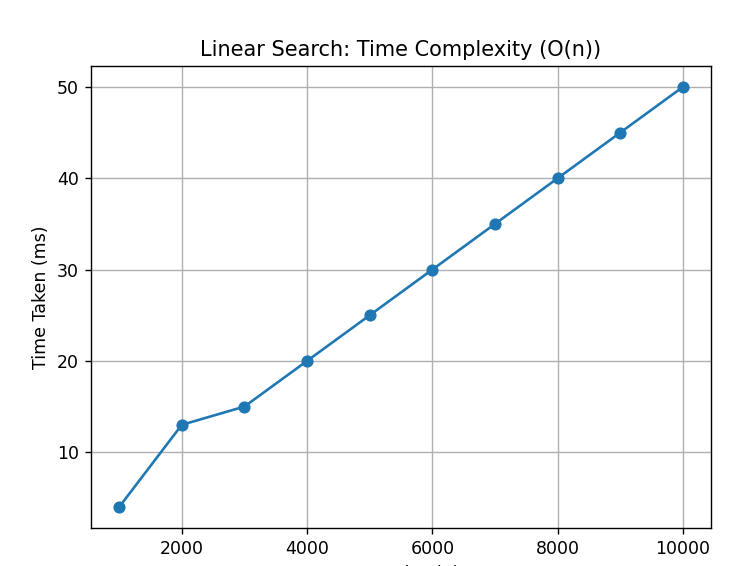
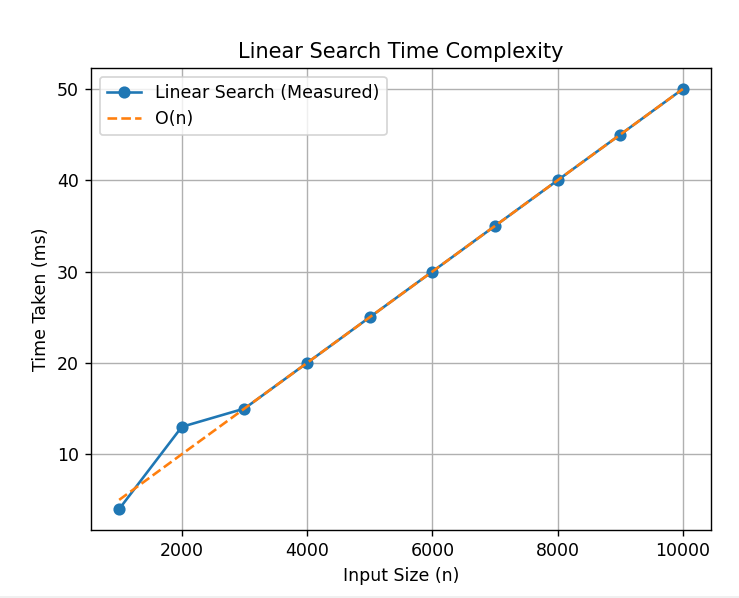
Added some changes

Changed region(s): [[0.0311, 0.0601, 0.9648, 0.9912], [0.4668, 0.5106, 0.5291, 0.5707], [0.6225, 0.3604, 0.6847, 0.4205]]

diff --git a/02Lecture/Algo/binarySearch.cpp b/02Lecture/Algo/binarySearch.cpp
@@ -1,0 +1,53 @@
+#include <iostream>
+#include <chrono>
+#include <algorithm>
+#include <cstdlib>
+
+using namespace std;
+using namespace std::chrono;
+
+int binarySearch(int arr[], int low, int high, int target) {
+    if (low > high)
+        return -1;
+
+    int mid = low + (high - low) / 2;
+
+    if (arr[mid] == target)
+        return mid;
+    else if (arr[mid] < target)
+        return binarySearch(arr, mid + 1, high, target);
+    else
+        return binarySearch(arr, low, mid - 1, target);
+}
+
+int getAverageTime(int n) {
+    long long total_diff = 0;
+    int arr[10000];
+
+    for (int i = 0; i < 100; i++) {
+        for (int j = 0; j < n; j++) {
+            arr[j] = rand() % 10000;
+        }
+
+        sort(arr, arr + n);
+
+        int target = rand() % 10000;
+
+        auto start = high_resolution_clock::now();
+        binarySearch(arr, 0, n - 1, target);
+        auto end = high_resolution_clock::now();
+
+        total_diff += duration_cast<nanoseconds>(end - start).count();
+    }
+
+    return total_diff / 100;
+}
+
+int main() {
+    for (int i = 10000; i <= 90000; i += 10000) {
+        int time = getAverageTime(i);
+        cout << "For " << i << " elements, time = "
+             << time << " ns" << endl;
+    }
+    return 0;
+}

diff --git a/02Lecture/Algo/insertionSort.cpp b/02Lecture/Algo/insertionSort.cpp
@@ -1,0 +1,50 @@
+#include<iostream>
+#include <chrono>
+
+using namespace std;
+using namespace std::chrono;
+
+void insertionSort(int arr[],int& n,int i){
+    if(i == n){
+        return;
+    }
+    int j = i;
+    int toBePlaced = arr[j];
+    while(j > 0 ){
+        if(arr[j-1] > toBePlaced){
+            arr[j] = arr[j-1];
+        }
+        j--;
+    }
+    arr[j] = toBePlaced;
+    
+    insertionSort(arr,n,i+1);
+}
+
+
+int getAverageTime(int n) {
+    int total_diff = 0;
+    int arr[10000];
+
+    for (int i = 0; i < 100; i++) {
+        for (int j = 0; j < n; j++) {
+            arr[j] = rand();
+        }
+
+        auto x = high_resolution_clock::now();
+        insertionSort(arr, n, 1);
+        auto y = high_resolution_clock::now();
+
+        total_diff += duration_cast<microseconds>(y - x).count() ;
+    }
+    return total_diff / 100;
+}
+
+int main() {
+    for (int i = 1000; i < 10000; i += 1000) {
+        int time = getAverageTime(i);
+        cout << "For size " << i << " the average time taken was "<<time<< " ms" << endl;
+    }
+
+    return 0;
+}

diff --git a/01Lecture/Graphs/selectionSort.py b/01Lecture/Graphs/selectionSort.py
@@ -3,9 +3,21 @@ import matplotlib.pyplot as plt
 n = [1000, 2000, 3000, 4000, 5000, 6000, 7000, 8000, 9000, 10000]
 time_ms = [915, 3687, 6912, 9327, 13501, 19577, 25952, 34065, 42901, 53173]
 
-plt.plot(n, time_ms, marker='o')
+n2 = [v * v for v in n]
+scale_n2 = time_ms[-1] / n2[-1]
+n2_scaled = [v * scale_n2 for v in n2]
+
+n1 = n
+scale_n1 = time_ms[0] / n1[0]
+n1_scaled = [v * scale_n1 for v in n1]
+
+plt.plot(n, time_ms, marker='o', label="Selection Sort (Measured)")
+plt.plot(n, n2_scaled, linestyle='--', label="Worst Case O(n²)")
+plt.plot(n, n1_scaled, linestyle='-.', label="Best Case O(n)")
+
 plt.xlabel("Input Size (n)")
 plt.ylabel("Time Taken (ms)")
-plt.title("Selection Sort: Real Execution Time (Large Input Sizes)")
+plt.title("Selection Sort Time Complexity")
+plt.legend()
 plt.grid(True)
 plt.show()

diff --git a/01Lecture/Graphs/bubbleSort.py b/01Lecture/Graphs/bubbleSort.py
@@ -3,13 +3,23 @@ import matplotlib.pyplot as plt
 sizes = [100, 200, 300, 400, 500, 600, 700, 800, 900]
 time_ms = [25, 42, 179, 320, 499, 685, 958, 1267, 1648]
 
-plt.plot(sizes, time_ms, marker='o')
 
+n2 = [n * n for n in sizes]
+scale_n2 = time_ms[-1] / n2[-1]
+n2_scaled = [v * scale_n2 for v in n2]
+
+n1 = sizes
+scale_n1 = time_ms[0] / n1[0]
+n1_scaled = [v * scale_n1 for v in n1]
+
+plt.plot(sizes, time_ms, marker='o', label="Bubble Sort (Measured)")
+plt.plot(sizes, n2_scaled, linestyle='--', label="O(n²)")
+plt.plot(sizes, n1_scaled, linestyle='-.', label="O(n) Best Case")
 
 plt.xlabel("Input Size (n)")
 plt.ylabel("Average Time Taken (ms)")
 plt.title("Bubble Sort Time Complexity (Practical)")
-
+plt.legend()
 plt.grid(True)
 
 plt.show()

diff --git a/02Lecture/Graphs/insertionSort.py b/02Lecture/Graphs/insertionSort.py
@@ -1,0 +1,23 @@
+import matplotlib.pyplot as plt
+
+x = [1000, 2000, 3000, 4000, 5000, 6000, 7000, 8000, 9000]
+measured = [624, 2491, 5605, 9759, 15375, 21937, 29763, 39100, 49880]
+
+n2 = [n*n for n in x]
+scale_n2 = measured[-1] / n2[-1]
+n2_scaled = [v * scale_n2 for v in n2]
+
+n1 = x
+scale_n1 = measured[0] / n1[0]
+n1_scaled = [v * scale_n1 for v in n1]
+
+plt.plot(x, measured, marker='o', label="Insertion Sort (Measured)")
+plt.plot(x, n2_scaled, linestyle='--', label="O(n²)")
+plt.plot(x, n1_scaled, linestyle='-.', label="O(n) Best Case")
+
+plt.xlabel("Input Size (n)")
+plt.ylabel("Time Taken (ms)")
+plt.title("Insertion Sort Time Complexity")
+plt.legend()
+plt.grid(True)
+plt.show()

diff --git a/01Lecture/Graphs/towerOfHanio.py b/01Lecture/Graphs/towerOfHanio.py
@@ -3,9 +3,16 @@ import matplotlib.pyplot as plt
 n = [15, 16, 17, 18, 19, 20, 21, 22, 23, 24, 25]
 time_ms = [172, 416, 629, 1428, 2042, 4610, 7004, 17837, 35189, 69458, 112613]
 
-plt.plot(n, time_ms, marker='o')
+exp = [2 ** v for v in n]
+scale_exp = time_ms[-1] / exp[-1]
+exp_scaled = [v * scale_exp for v in exp]
+
+plt.plot(n, time_ms, marker='o', label="Tower of Hanoi (Measured)")
+plt.plot(n, exp_scaled, linestyle='--', label="Worst Case O(2ⁿ)")
+
 plt.xlabel("Number of Disks (n)")
 plt.ylabel("Time Taken (ms)")
-plt.title("Tower of Hanoi: Real Execution Time (Exponential Growth)")
+plt.title("Tower of Hanoi Time Complexity")
+plt.legend()
 plt.grid(True)
 plt.show()

diff --git a/01Lecture/Graphs/linearSearch.py b/01Lecture/Graphs/linearSearch.py
@@ -3,9 +3,16 @@ import matplotlib.pyplot as plt
 n = [1000, 2000, 3000, 4000, 5000, 6000, 7000, 8000, 9000, 10000]
 time_ms = [4, 13, 15, 20, 25, 30, 35, 40, 45, 50]
 
-plt.plot(n, time_ms, marker='o')
+on = n
+scale_on = time_ms[-1] / on[-1]
+on_scaled = [v * scale_on for v in on]
+
+plt.plot(n, time_ms, marker='o', label="Linear Search (Measured)")
+plt.plot(n, on_scaled, linestyle='--', label="O(n)")
+
 plt.xlabel("Input Size (n)")
 plt.ylabel("Time Taken (ms)")
-plt.title("Linear Search: Time Complexity (O(n))")
+plt.title("Linear Search Time Complexity")
+plt.legend()
 plt.grid(True)
 plt.show()

diff --git a/01Lecture/Algo/duplicateNumber.cpp b/01Lecture/Algo/duplicateNumber.cpp
@@ -1,0 +1,33 @@
+#include<iostream>
+
+using namespace std;
+
+int findNumber(int arr[],int n){
+    for(int i=0; i<n; i++){
+        for(int j=i+1; j<n; j++){
+            if(arr[i] == arr[j]){
+                return arr[i];
+            }
+        }
+    }
+    return -1;
+}
+
+void fillNumber(int arr[], int n){
+    for(int i=0; i<n; i++){
+        arr[i] = rand()%1000;
+    }
+}
+
+int main(){
+    int arr[10000];
+    for(int i=1000; i<10000; i+=1000){
+        fillNumber(arr,i);
+        cout<<findNumber(arr,i)<<endl;
+    }
+    
+
+
+
+    return 0;
+}

diff --git a/01Lecture/Algo/bubbleSort.cpp b/01Lecture/Algo/bubbleSort.cpp
@@ -6,12 +6,6 @@
 using namespace std;
 using namespace std::chrono;
 
-void fill(int arr[], int n) {
-    for (int i = 0; i < n; i++) {
-        arr[i] = rand() % 1000;
-    }
-}
-
 void bubbleSortRecursive(int arr[], int n) {
     if (n == 1) return;
 
@@ -32,7 +26,6 @@ int getAverageTime(int n) {
         for (int j = 0; j < n; j++) {
             arr[j] = rand();
         }
-        int target = rand();
 
         auto x = high_resolution_clock::now();
         bubbleSortRecursive(arr, n);
